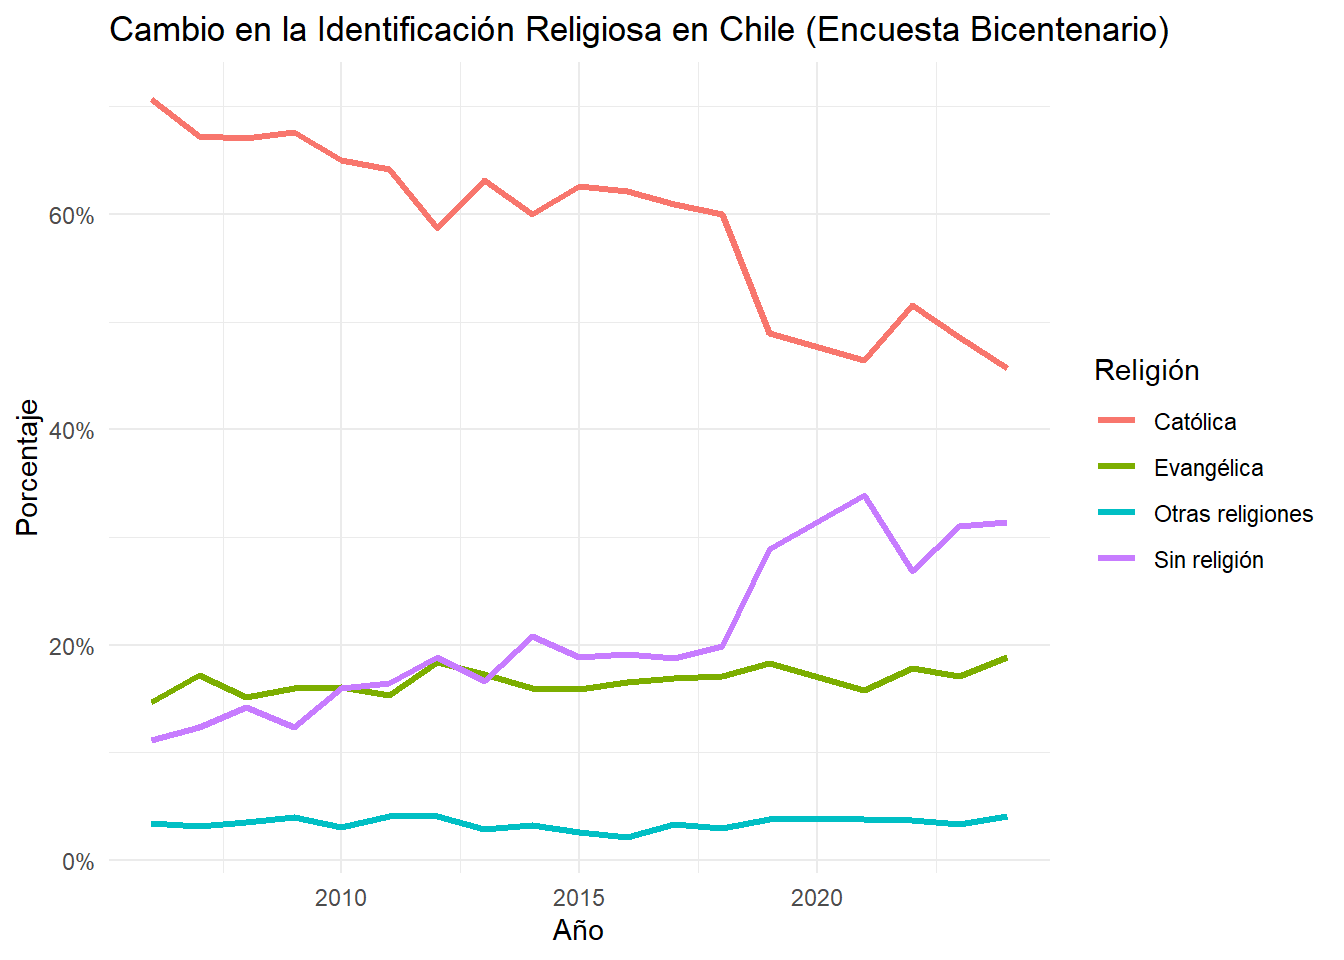
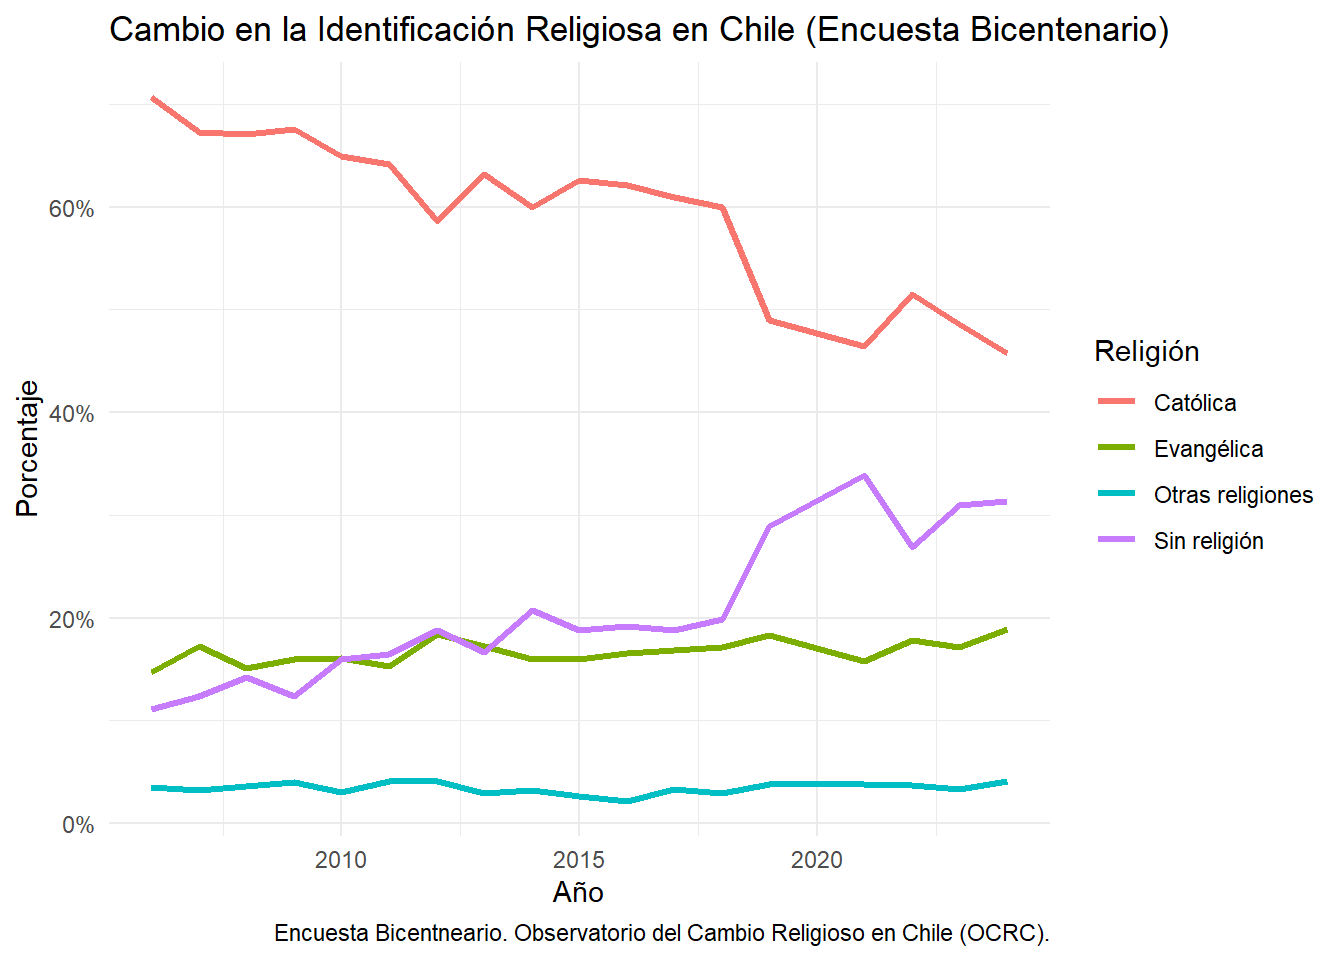
Actualizacion elsoc

diff --git a/docs/analisis/analisis.html b/docs/analisis/analisis.html
@@ -171,6 +171,7 @@ ul.task-list li input[type="checkbox"] {
 <p>El cambio más significativo ocurre en el grupo que declara no tener religión. Desde niveles cercanos al 6–7% en los años noventa, esta categoría aumenta de manera sostenida a partir de la década de 2000, con un salto particularmente visible en el período posterior a 2018. En los últimos años observados, la no afiliación se aproxima o supera el 25%, convirtiéndose en el segundo grupo más numeroso después del catolicismo.</p>
 <p>Las “otras religiones” permanecen relativamente marginales y estables, lo que indica que el proceso no está marcado por una fuerte diversificación religiosa no cristiana, sino más bien por un crecimiento de la desafiliación.</p>
 <p>En conjunto, el patrón observado sugiere que el cambio religioso chileno no se explica principalmente como una recomposición entre denominaciones cristianas, sino como un proceso de erosión de la identificación tradicional y expansión de la no afiliación. Más que un simple pluralismo, los datos apuntan hacia una reconfiguración del campo religioso donde la pérdida de centralidad institucional —especialmente del catolicismo— constituye el fenómeno dominante.</p>
+<hr>
 <p><strong>Encuesta Bicentenario UC</strong></p>
 <p>Como indican en su página web (<a href="https://encuestabicentenario.uc.cl/quienes-somos/" class="uri">https://encuestabicentenario.uc.cl/quienes-somos/</a>) la Encuesta Bicentenario es un proyecto de la Pontificia Universidad Católica de Chile, cuyo propósito es obtener información altamente confiable y sostenida en el tiempo acerca del estado de la sociedad chilena en tópicos relevantes y de alto impacto que permitan develar sus rasgos fundamentales.</p>
 <p>Este estudio nació en el 2006 con la finalidad de conocer lo que pensaban los chilenos de cara al Bicentenario. Desde entonces se ha mantenido año tras año, lo que ha permitido contar con información estadística relevante por más de una década.</p>
@@ -190,7 +191,26 @@ ul.task-list li input[type="checkbox"] {
 <p>El cambio más significativo se observa en el grupo que declara no tener religión. A mediados de los años 2000 esta categoría se situaba en torno al 10–12% de la población, pero comienza a aumentar de manera sostenida durante la década siguiente. El incremento se vuelve particularmente visible a partir de la segunda mitad de la década de 2010, alcanzando niveles cercanos o superiores al 30% en los últimos años del período. De este modo, la no afiliación religiosa pasa a constituirse en el segundo grupo más numeroso después del catolicismo.</p>
 <p>Por su parte, las “otras religiones” mantienen una presencia relativamente baja y estable a lo largo del tiempo, generalmente por debajo del 5% de la población. Esto indica que el cambio religioso en Chile no está asociado principalmente a una diversificación significativa hacia tradiciones religiosas minoritarias.</p>
 <p>En conjunto, el patrón observado es consistente con el identificado en otras encuestas nacionales: el cambio religioso en Chile se caracteriza principalmente por la disminución de la identificación católica y el crecimiento sostenido de la no afiliación. Más que un proceso de recomposición entre denominaciones cristianas, los datos sugieren una transformación más profunda del campo religioso, marcada por la pérdida de centralidad de las instituciones tradicionales y la expansión de identidades religiosas más débiles o inexistentes.</p>
+<hr>
 <p><strong>ELSOC (Estudio Longitudinal Social de Chile, COES)</strong></p>
+<p>El Estudio Longitudinal Social de Chile (ELSOC) fue una encuesta realizada de forma anual a la población urbana chilena desde el 2016 hasta el 2023. Como bien señalan en su página web (<a href="https://conferencias.coes.cl/encuesta-panel/" class="uri">https://conferencias.coes.cl/encuesta-panel/</a>) el fin de deicha herramienta era evaluar la manera cómo piensan, sienten y se comportan los chilenos en torno a un conjunto de temas referidos al conflicto y la cohesión social en el país.</p>
+<div class="cell">
+<div class="cell-output-display">
+<div>
+<figure class="figure">
+<p><img src="analisis_files/figure-html/unnamed-chunk-6-1.png" class="img-fluid figure-img" width="672"></p>
+</figure>
+</div>
+</div>
+</div>
+<p>El gráfico basado en ELSOC permite observar la evolución de la identificación religiosa en Chile a partir de un diseño longitudinal, siguiendo a los mismos individuos a lo largo de siete olas. Esto introduce una diferencia fundamental respecto a encuestas transversales: los cambios observados reflejan, en mayor medida, transformaciones reales en las trayectorias individuales y no solo reemplazos generacionales.</p>
+<p>En primer lugar, la identificación católica muestra una disminución relevante entre las primeras olas del panel, pasando de niveles cercanos al 55% a aproximadamente un 50%. Posteriormente, la serie se estabiliza, manteniéndose en torno a ese nivel hasta el final del período. Este patrón sugiere que el debilitamiento del catolicismo ocurre con mayor intensidad en una fase inicial, seguido de una cierta consolidación.</p>
+<p>En segundo lugar, la identificación evangélica/protestante se mantiene notablemente estable a lo largo de todas las olas, fluctuando levemente en torno al 19–20%. Al igual que en los datos del CEP, esto indica que el cambio religioso no se explica principalmente por un traspaso masivo desde el catolicismo hacia otras denominaciones cristianas.</p>
+<p>En tercer lugar, el grupo sin religión presenta un aumento significativo entre las primeras olas, pasando de aproximadamente un 23% a cerca de un 28%. A partir de ese punto, la proporción se estabiliza con leves fluctuaciones. Este comportamiento sugiere que una parte importante del proceso de desafiliación ocurre relativamente temprano en el período observado.</p>
+<p>Las “otras religiones” permanecen en niveles bajos y estables, sin evidenciar un crecimiento sostenido.</p>
+<p>En conjunto, el patrón longitudinal refuerza la interpretación de que el cambio religioso en Chile está marcado por procesos de desafiliación más que por recomposición denominacional. Dado que se sigue a los mismos individuos en el tiempo, estos resultados sugieren que el aumento de la no afiliación no es únicamente un fenómeno generacional, sino que también responde a cambios en la identificación religiosa a lo largo del ciclo de vida.</p>
+<p>Más ampliamente, los datos apuntan a un proceso de reconfiguración del campo religioso en el cual la pérdida de centralidad del catolicismo se combina con una expansión de posiciones de no afiliación relativamente estables, una vez que estas se adoptan.</p>
+<hr>
 
 
 